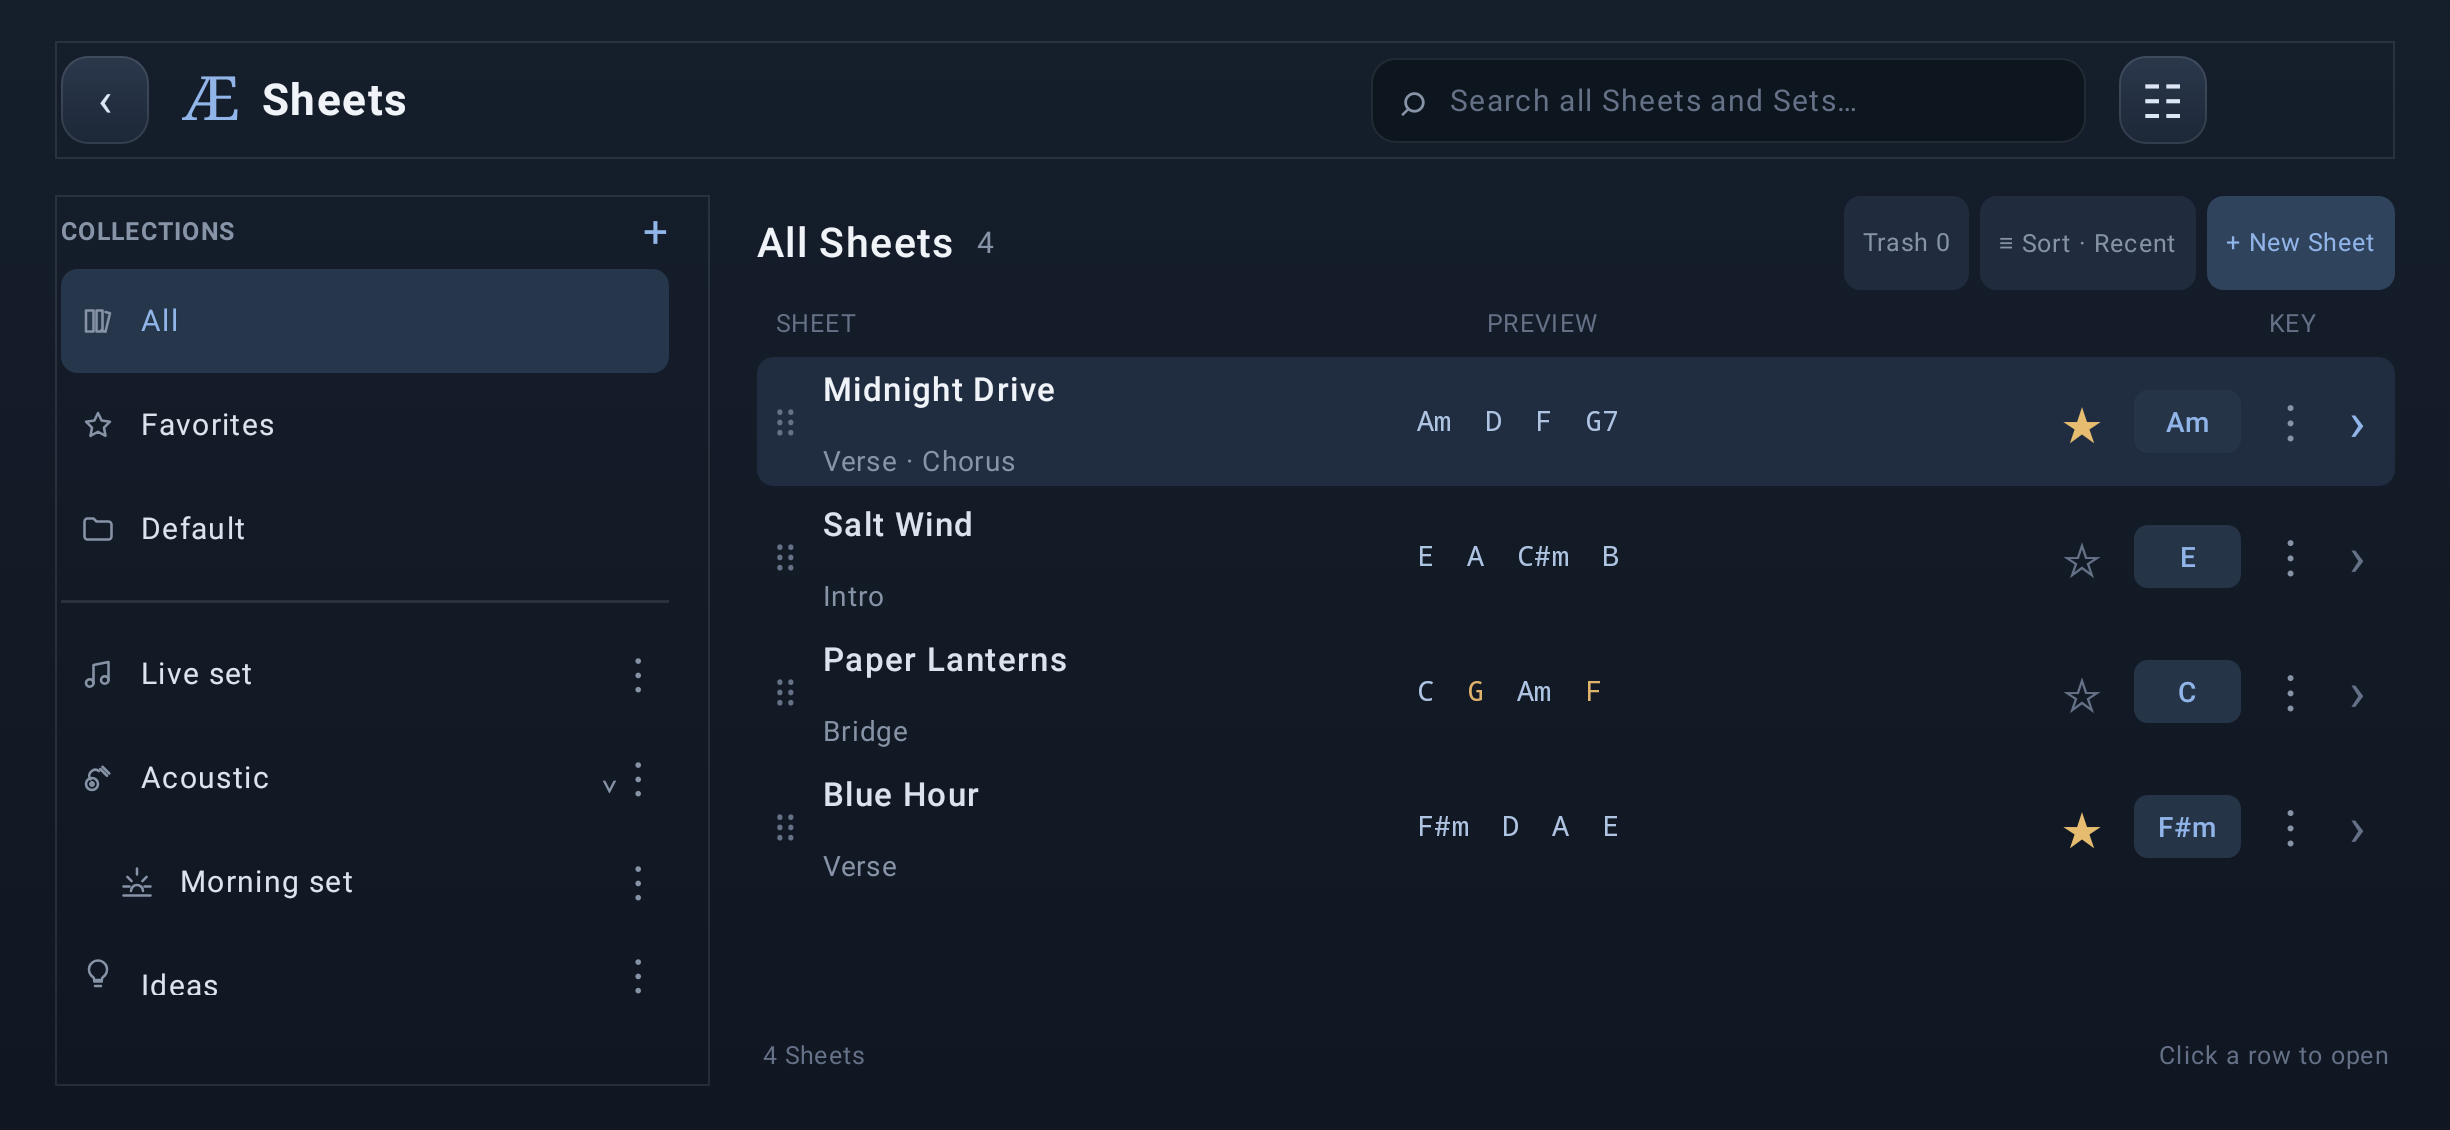
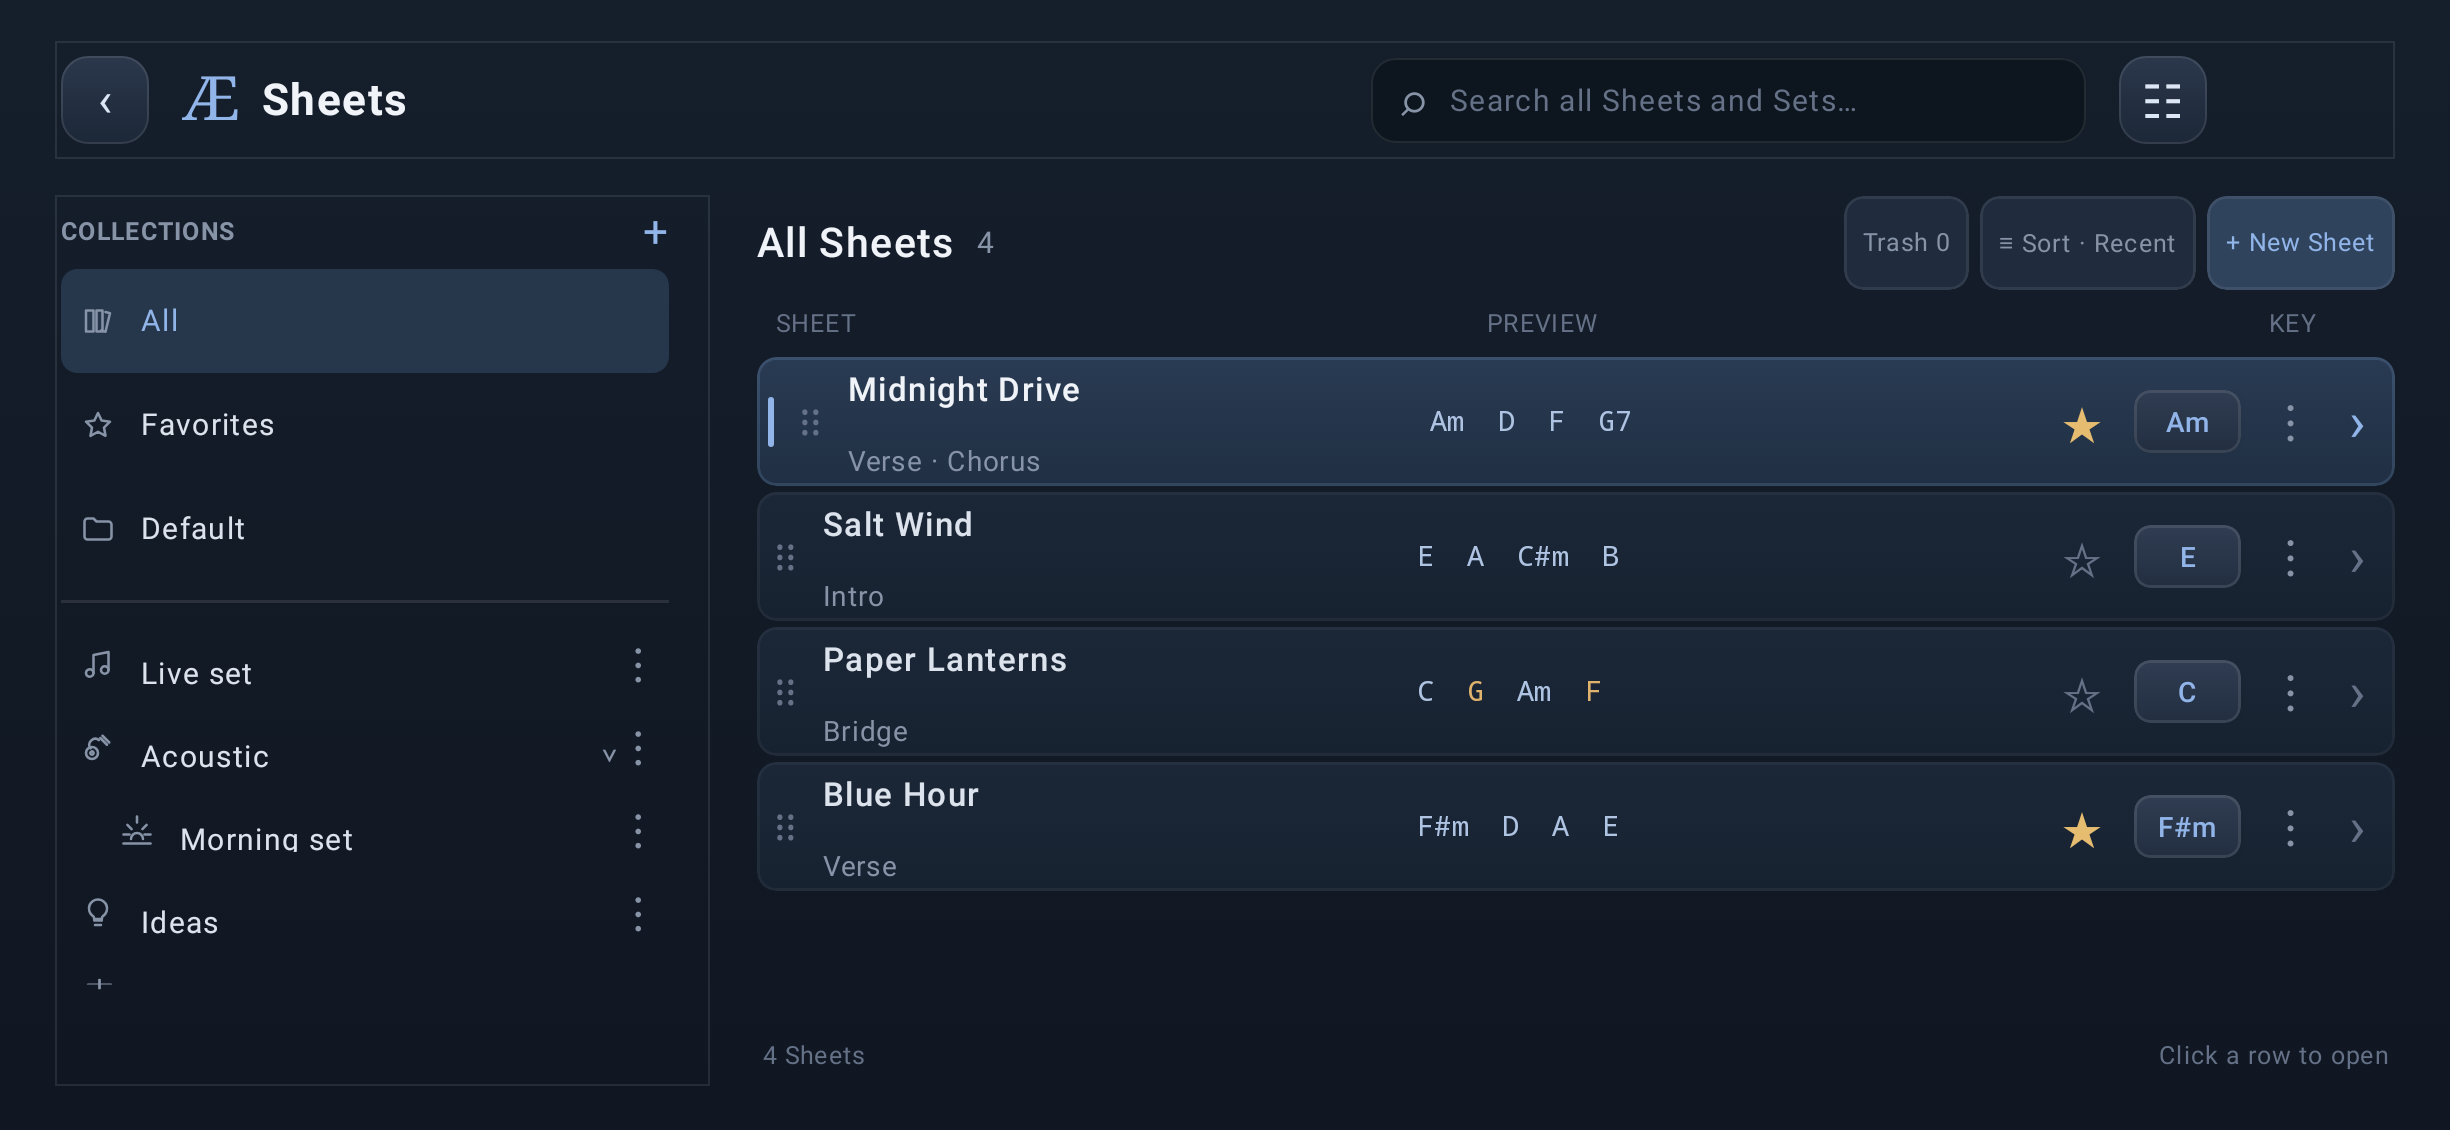
Sheets refonte: captures du portage Compose (8 etats + GIF)

diff --git a/sheets-refonte/index.html b/sheets-refonte/index.html
@@ -38,14 +38,14 @@
 <body>
 <div class="wrap">
   <h1>Sheets - <b>refonte</b></h1>
-  <p class="sub">8 etats rendus par le vrai ecran Android (Compose, Robolectric + Roborazzi,
+  <p class="sub">9 etats rendus par le vrai ecran Android (Compose, Robolectric + Roborazzi,
      hors emulateur). Cliquer une vignette pour l'image pleine (PNG 2450x1130).</p>
   <p class="note">Ecran <b>SheetsHomeScreen</b> (package <b>com.aetherkeys.sheets</b>),
      traduction Compose de <b>SheetsHome.jsx</b> (paquet <b>sheets-redesign</b>).
      Integre a l'app : ouvert depuis le bouton Sheets du mixer.</p>
-  <h2>Animation <span class="tag">8 etats</span></h2>
+  <h2>Animation <span class="tag">9 etats</span></h2>
   <figure class="gif"><img src="sheets-refonte.gif" alt="Refonte Sheets"></figure>
-  <h2>Ecrans <span class="tag">8</span></h2>
+  <h2>Ecrans <span class="tag">9</span></h2>
   <div class="grid">
     <figure class="shot">
       <a href="sheets_refonte_01_all.png" target="_blank" rel="noopener"><img loading="lazy" src="sheets_refonte_01_all.png" alt="Bibliotheque"></a>
@@ -78,6 +78,10 @@
     <figure class="shot">
       <a href="sheets_refonte_08_set_menu.png" target="_blank" rel="noopener"><img loading="lazy" src="sheets_refonte_08_set_menu.png" alt="Menu de Set"></a>
       <figcaption><b>Menu de Set</b><span>Menu contextuel d'un Set : Rename, Change icon, Delete set.</span></figcaption>
+    </figure>
+    <figure class="shot">
+      <a href="sheets_refonte_09_sheet_menu.png" target="_blank" rel="noopener"><img loading="lazy" src="sheets_refonte_09_sheet_menu.png" alt="Menu de Sheet"></a>
+      <figcaption><b>Menu de Sheet</b><span>Menu contextuel d'une Sheet : Add/Remove favorite, Duplicate, Move to trash.</span></figcaption>
     </figure>
   </div>
 </div>
